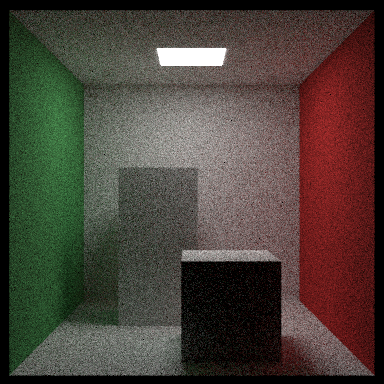
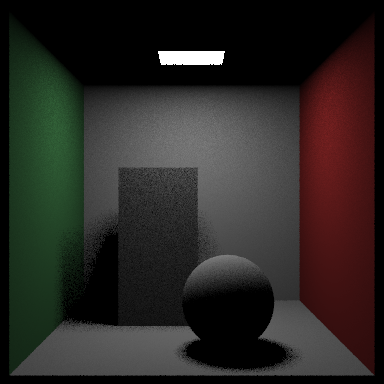
Light Sampling

diff --git a/code/Main.cs b/code/Main.cs
@@ -9,28 +9,57 @@ namespace RayTracingInOneWeekend
 {
     class Program
     {
+        static readonly float lightXMin = 213.0f;
+        static readonly float lightXMax = 343.0f;
+        static readonly float lightZMin = 227.0f;
+        static readonly float lightZMax = 332.0f;
+        static readonly float boxSize = 555.0f;
+        static readonly float lightY = boxSize - 1.0f;
+
         static Vector3 rayColor(in Ray ray, in Vector3 background, in HittableList world, int depth)
         {
             if (depth <= 0)
                 return Vector3.Zero;
 
-            HitRecord hitRecord = new HitRecord();
+            HitRecord record = new HitRecord();
 
-            if (!(world.hit(ray, 0.001f, float.PositiveInfinity, ref hitRecord)))
+            if (!(world.hit(ray, 0.001f, float.PositiveInfinity, ref record)))
                 return background;
 
             Ray scattered = new Ray();
             // scattered.time = 0.0f;
-            Material mat = hitRecord.material;
-            Vector3 emitted = mat.emit(hitRecord.uv, hitRecord.point);
+            Material mat = record.material;
+            Vector3 emitted = mat.emit(ray, record);
             float pdf = 0.0f;
             // Vector3 attenuation = new Vector3(0.0f);
             Vector3 albedo = new Vector3(0.0f);
 
-            if (!mat.scatter(ray, hitRecord, ref albedo, ref scattered, ref pdf))
+            if (!mat.scatter(ray, record, ref albedo, ref scattered, ref pdf))
                 return emitted;
-            
-            float scatteredPdf = mat.scatterPdf(ray, hitRecord, scattered);
+
+            Vector3 onLight = new Vector3(
+                Utility.RandomF(lightXMin, lightXMax),
+                lightY,
+                Utility.RandomF(lightZMin, lightZMax)
+            );
+
+            Vector3 toLight = onLight - record.point;
+            float distanceSqrToLight = Vector3.Dot(toLight, toLight);
+            toLight = Vector3.Normalize(toLight);
+
+            if (Vector3.Dot(toLight, record.normal) < 0.0f)
+                return emitted;
+
+            float lightArea = (lightXMax - lightXMin) * (lightZMax - lightZMin);
+            float lightCosine = Math.Abs(toLight.Y);
+            if (lightCosine < 0.00001f)
+                return emitted;
+
+            pdf = distanceSqrToLight / (lightCosine * lightArea);
+            scattered.origin = record.point;
+            scattered.direction = toLight;
+
+            float scatteredPdf = mat.scatterPdf(ray, record, scattered);
             return emitted + albedo * scatteredPdf * rayColor(scattered, background, world, depth - 1) / pdf;
         }
 
@@ -43,16 +72,31 @@ namespace RayTracingInOneWeekend
             var white = new Lambertian(new SolidColor(0.73f));
             var light = new DiffuseLight(new SolidColor(15.0f));
 
-            float s = 555.0f;
+            float s = boxSize;
             world.add(new YZRect(Vector3.Zero, s * Vector3.One, s, green));
             world.add(new YZRect(Vector3.Zero, s * Vector3.One, 0.0f, red));
             world.add(new XZRect(Vector3.Zero, s * Vector3.One, s, white));
             world.add(new XZRect(Vector3.Zero, s * Vector3.One, 0.0f, white));
             world.add(new XYRect(Vector3.Zero, s * Vector3.One, s, white));
-            world.add(new XZRect(new Vector3(213.0f), new Vector3(343.0f), s - 1, light));
-
-            world.add(new Box(new Vector3(130.0f, 0.0f, 65.0f), new Vector3(295.0f, 165.0f, 230.0f), white));
-            world.add(new Box(new Vector3(265.0f, 0.0f, 295.0f), new Vector3(430.0f, 330.0f, 460.0f), white));
+            // add light
+            {
+                Vector3 lmin = new Vector3(lightXMin, 0.0f, lightZMin);
+                Vector3 lmax = new Vector3(lightXMax, 0.0f, lightZMax);
+                world.add(new XZRect(lmin, lmax, lightY, light));
+            }
+            // add sphere
+            {
+                Vector3 min = new Vector3(130.0f, 0.0f, 65.0f);
+                Vector3 max = new Vector3(295.0f, 165.0f, 230.0f);
+                Vector3 center = 0.5f * (min + max);
+                float radius = 0.5f * (max - min).X;
+                // world.add(new Box(new Vector3(130.0f, 0.0f, 65.0f), new Vector3(295.0f, 165.0f, 230.0f), white));
+                world.add(new Sphere(center, radius, white));
+            }
+            // add box
+            {
+                world.add(new Box(new Vector3(265.0f, 0.0f, 295.0f), new Vector3(430.0f, 330.0f, 460.0f), white));
+            }
 
             Vector3 lookFrom = new Vector3(278.0f, 278.0f, -800.0f);
             Vector3 lookAt = new Vector3(278.0f, 278.0f, 0.0f);
@@ -79,7 +123,8 @@ namespace RayTracingInOneWeekend
             const int imageHeight = imageWidth;
             // const int imageHeight = 216;
             const float aspectRatio = (float)imageWidth / imageHeight;
-            const int samplesPerPixel = 500;
+            const int samplesPerPixel = 10;
+            // const int samplesPerPixel = 100;
             const int maxDepth = 50;
 
             const int component = 3;

diff --git a/code/Material.cs b/code/Material.cs
@@ -6,8 +6,16 @@ namespace RayTracingInOneWeekend {
     public abstract class Material
     {
         public abstract bool scatter(in Ray ray, in HitRecord record, ref Vector3 albedo, ref Ray scattered, ref float pdf);
-        public virtual float scatterPdf(in Ray ray, in HitRecord record, in Ray scattered) { return 0.0f; }
-        public abstract Vector3 emit(in Vector2 uv, in Vector3 point);
+
+        public virtual float scatterPdf(in Ray ray, in HitRecord record, in Ray scattered)
+        {
+            return 0.0f;
+        }
+
+        public virtual Vector3 emit(in Ray ray, in HitRecord record)
+        {
+            return Vector3.Zero;
+        }
     }
 
 }

diff --git a/code/DiffuseLight.cs b/code/DiffuseLight.cs
@@ -15,9 +15,10 @@ namespace RayTracingInOneWeekend {
             return false;
         }
 
-        public override Vector3 emit(in Vector2 uv, in Vector3 point)
+        public override Vector3 emit(in Ray ray, in HitRecord record)
         {
-            return emission.value(uv, point);
+            // return record.frontFace ? emission.value(record.uv, record.point) : Vector3.Zero;
+            return !record.frontFace ? emission.value(record.uv, record.point) : Vector3.Zero;
         }
 
         private readonly Texture emission;

diff --git a/code/Metal.cs b/code/Metal.cs
@@ -21,11 +21,6 @@ namespace RayTracingInOneWeekend {
             return Vector3.Dot(scattered.direction, record.normal) > 0.0f;
         }
 
-        public override Vector3 emit(in Vector2 uv, in Vector3 point)
-        {
-            return Vector3.Zero;
-        }
-
         private readonly Vector3 albedo;
         private readonly float fuzziness;
     }

diff --git a/code/Lambertian.cs b/code/Lambertian.cs
@@ -29,11 +29,6 @@ namespace RayTracingInOneWeekend {
             return Math.Max(cosine / Utility.Pi, 0.0f);
         }
 
-        public override Vector3 emit(in Vector2 uv, in Vector3 point)
-        {
-            return Vector3.Zero;
-        }
-
         private readonly Texture albedo;
     }
 

diff --git a/code/Dielectric.cs b/code/Dielectric.cs
@@ -30,11 +30,6 @@ namespace RayTracingInOneWeekend {
             return true;
         }
 
-        public override Vector3 emit(in Vector2 uv, in Vector3 point)
-        {
-            return Vector3.Zero;
-        }
-
         private readonly float reflectionPower;
     }
 
